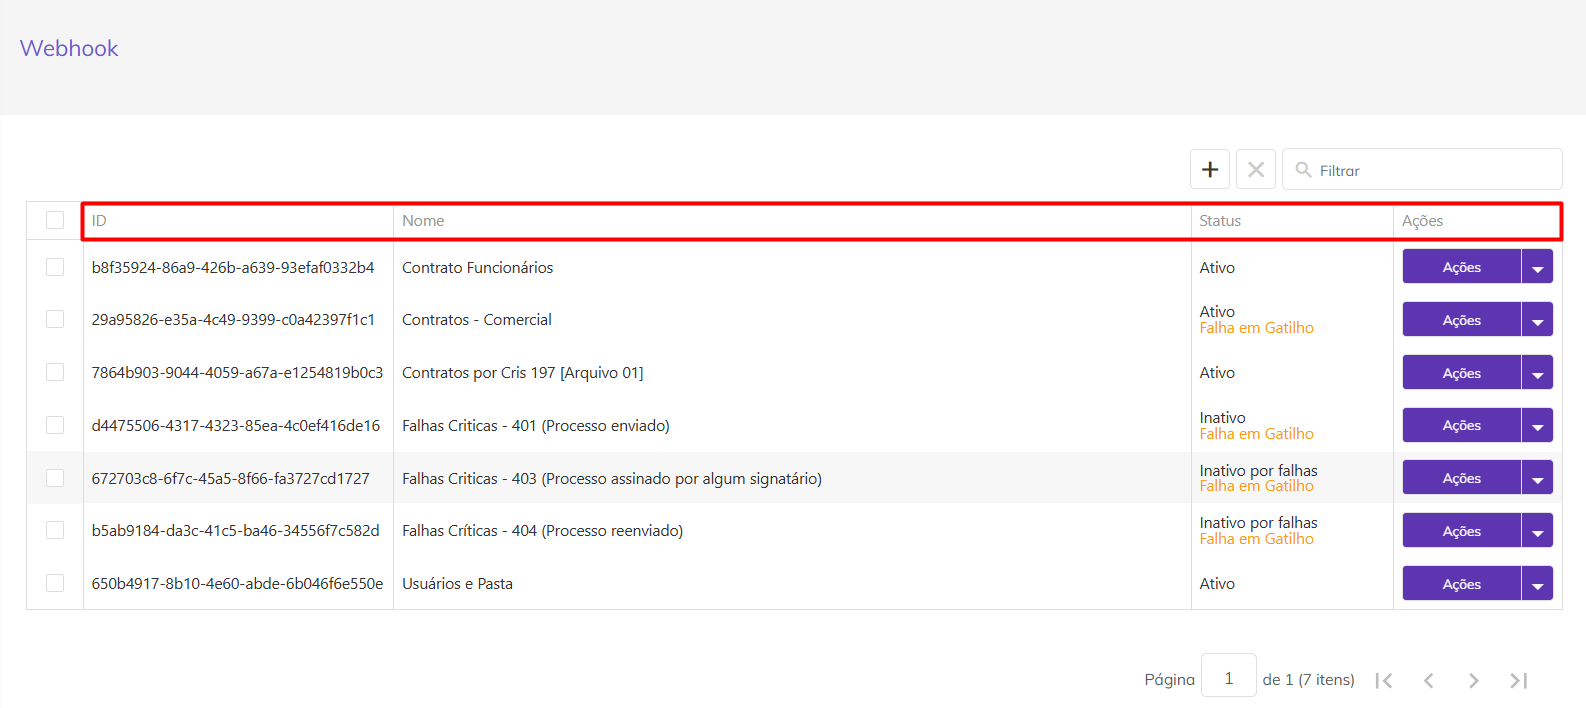
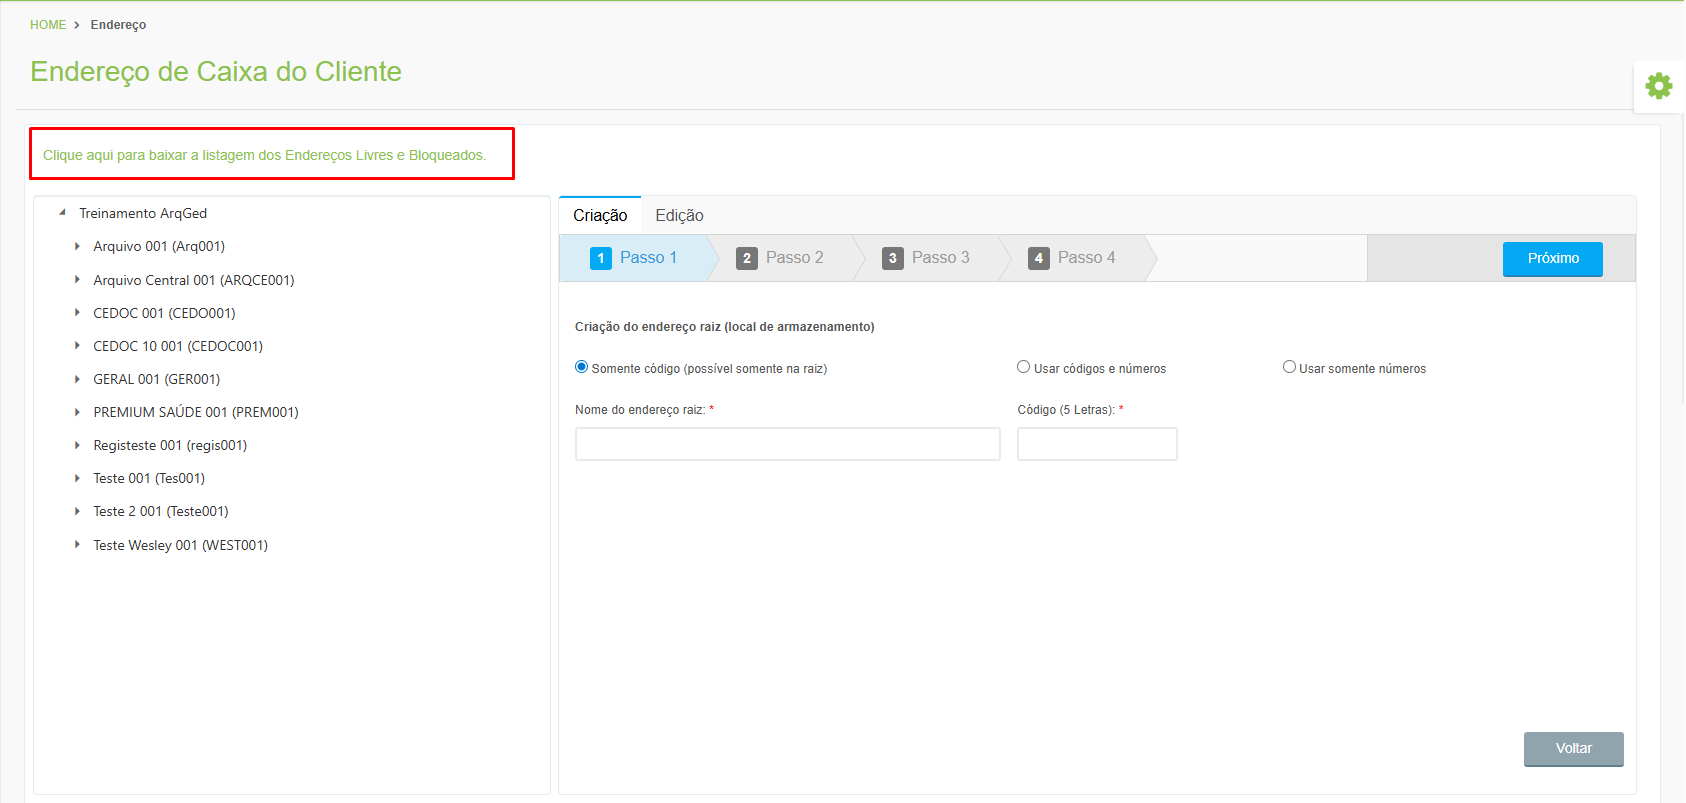
GITBOOK-861: No subject

diff --git a/endereco/endereco-do-cliente.md b/endereco/endereco-do-cliente.md
@@ -1,71 +1,90 @@
 # 🟩 Endereço do Cliente
 
-{% embed url="https://app.supademo.com/demo/cmbawkiw21yr0sn1rl8jfu263" %}
+{% @supademo/embed demoId="cmbawkiw21yr0sn1rl8jfu263" url="https://app.supademo.com/demo/cmbawkiw21yr0sn1rl8jfu263" %}
 
-Na tela de Endereço do Cliente são mostradas todas as posições de armazenamento que o cliente possui em seu espaço físico, como salas, galpões, armários etc.&#x20;
+Na tela de Endereço do Cliente são mostradas todas as posições de armazenamento que o cliente possui em seu espaço físico, como salas, galpões, armários etc.
 
-## Endereço do Cliente – Tela inicial&#x20;
+## Endereço do Cliente – Tela inicial
 
-Na tela inicial de Endereço do Cliente são mostrados todos os clientes da unidade Arquivar do usuário logado. &#x20;
+Na tela inicial de Endereço do Cliente são mostrados todos os clientes da unidade Arquivar do usuário logado.
 
-**Ícone Editar:** Utilizado para realizar a edição e criação das posições de armazenamento do cliente selecionado. &#x20;
+**Ícone Editar:** Utilizado para realizar a edição e criação das posições de armazenamento do cliente selecionado.
 
-**Ícone Visualizar:** Utilizado para visualizar detalhes das posições de armazenamento do cliente selecionado.&#x20;
+**Ícone Visualizar:** Utilizado para visualizar detalhes das posições de armazenamento do cliente selecionado.
 
-**Coluna Nome Fantasia:** Exibe o nome fantasia do cliente.&#x20;
+**Coluna Nome Fantasia:** Exibe o nome fantasia do cliente.
 
-**Coluna Razão Social:** Exibe a razão social do cliente.&#x20;
+**Coluna Razão Social:** Exibe a razão social do cliente.
 
 {% hint style="info" %}
-<mark style="color:blue;">**NOME FANTASIA X RAZÃO SOCIAL:**</mark> <mark style="color:blue;"></mark><mark style="color:blue;">O nome fantasia de uma empresa é como ela vai ser conhecida ou reconhecida pelo público. É definido na hora da formalização, considerando o mercado e a área de atuação. Já a razão social, é o nome oficial do empreendimento no registro, usada em contratos, Nota Fiscal e documentos oficiais.</mark>&#x20;
+<mark style="color:blue;">**NOME FANTASIA X RAZÃO SOCIAL:**</mark> <mark style="color:blue;">O nome fantasia de uma empresa é como ela vai ser conhecida ou reconhecida pelo público. É definido na hora da formalização, considerando o mercado e a área de atuação. Já a razão social, é o nome oficial do empreendimento no registro, usada em contratos, Nota Fiscal e documentos oficiais.</mark>
 {% endhint %}
 
 <figure><img src="../.gitbook/assets/endereco18.png" alt=""><figcaption><p>Clique na imagem para ampliar.</p></figcaption></figure>
 
 ***
 
-## Criação de Endereço do Cliente&#x20;
+## Criação de Endereço do Cliente
 
-### Aba Criação&#x20;
+### Aba Criação
 
-Na aba Criação são exibidos são exibidas todas as posições de armazenamento que o cliente possui no lado esquerdo da tela.&#x20;
+Na aba Criação são exibidas todas as posições de armazenamento que o cliente possui no lado esquerdo da tela.
 
-Para criar um espaço de armazenamento siga os passos a seguir: &#x20;
+Para criar um espaço de armazenamento siga os passos a seguir:
 
-1\.  Informe um nome para o endereço raiz e um código de cinco letras para esse endereço. É preciso também definir se será utilizado apenas o código, o código e números ou somente números para identificação do endereço que está sendo criado. O endereço raiz é o primeiro nível de armazenamento, que abrigará todos os outros níveis. Caso deseje utilizar um endereço raiz já existente, selecione-o na parte esquerda da tela e para ser direcionado para o próximo passo.&#x20;
+1\. Informe um nome para o endereço raiz e um código de cinco letras para esse endereço. É preciso também definir se será utilizado apenas o código, o código e números ou somente números para identificação do endereço que está sendo criado. O endereço raiz é o primeiro nível de armazenamento, que abrigará todos os outros níveis. Caso deseje utilizar um endereço raiz já existente, selecione-o na parte esquerda da tela e para ser direcionado para o próximo passo.
 
 {% hint style="info" %}
-<mark style="color:blue;">**EXEMPLO:**</mark> <mark style="color:blue;"></mark><mark style="color:blue;">Imagine que o cliente possui seu arquivo inteiro em uma sala de sua sede. Neste caso, o endereço raiz pode ser “SALA 01”, e os demais níveis podem ser armários, prateleiras, gavetas etc.</mark>
+<mark style="color:blue;">**EXEMPLO:**</mark> <mark style="color:blue;">Imagine que o cliente possui seu arquivo inteiro em uma sala de sua sede. Neste caso, o endereço raiz pode ser “SALA 01”, e os demais níveis podem ser armários, prateleiras, gavetas etc.</mark>
 {% endhint %}
 
 <figure><img src="../.gitbook/assets/endereco19.png" alt=""><figcaption><p>Clique na imagem para ampliar.</p></figcaption></figure>
 
-2\. Informe a quantidade de níveis de armazenamento que aquele endereço terá e se nesse endereço será determinada a posição exata de caixas e pastas e de quantidade de itens que caberão no local. Se for selecionado que não será preciso definir a posição exata das caixas nem a quantidade de itens que caberão, será preciso informar manualmente no sistema quando o local de armazenamento estiver cheio. &#x20;
+2\. Informe a quantidade de níveis de armazenamento que aquele endereço terá e se nesse endereço será determinada a posição exata de caixas e pastas e de quantidade de itens que caberão no local. Se for selecionado que não será preciso definir a posição exata das caixas nem a quantidade de itens que caberão, será preciso informar manualmente no sistema quando o local de armazenamento estiver cheio.
 
 <figure><img src="../.gitbook/assets/endereco20.png" alt=""><figcaption><p>Clique na imagem para ampliar.</p></figcaption></figure>
 
-3\. Defina os níveis de armazenamento usando códigos e números ou somente números. Os níveis de armazenamento são uma forma de dividir e organizar os locais que receberão as caixas, como armários, prateleiras, estantes, gavetas, posições etc. É preciso também informar a quantidade de posições de cada um dos níveis de armazenamento.&#x20;
+3\. Defina os níveis de armazenamento usando códigos e números ou somente números. Os níveis de armazenamento são uma forma de dividir e organizar os locais que receberão as caixas, como armários, prateleiras, estantes, gavetas, posições etc. É preciso também informar a quantidade de posições de cada um dos níveis de armazenamento.
 
 <figure><img src="../.gitbook/assets/endereco21.png" alt=""><figcaption><p>Clique na imagem para ampliar.</p></figcaption></figure>
 
-Para finalizar, clique em “Concluir”. Os locais criados serão exibidos no lado esquerdo da tela. &#x20;
+Para finalizar, clique em “Concluir”. Os locais criados serão exibidos no lado esquerdo da tela.
 
 <figure><img src="../.gitbook/assets/endereco22.png" alt=""><figcaption><p>Clique na imagem para ampliar.</p></figcaption></figure>
 
 ***
 
-### Aba Edição&#x20;
+### Aba Edição
 
-Na aba Edição é possível editar o nome e o código do endereço e alterar o status dos níveis de armazenamento, se necessário.  &#x20;
+Na aba Edição é possível editar o nome e o código do endereço e alterar o status dos níveis de armazenamento, se necessário.
 
-O status de um nível de armazenamento é “Livre” por padrão, ou seja, pode receber caixas e documentos livremente. &#x20;
+O status de um nível de armazenamento é “Livre” por padrão, ou seja, pode receber caixas e documentos livremente.
 
-Caso seja necessário é possível bloquear um local de armazenamento selecionando o status “Bloqueado”. O bloqueio só pode ocorrem se o nível selecionado for o último nível de armazenamento.&#x20;
+Caso seja necessário é possível bloquear um local de armazenamento selecionando o status “Bloqueado”. O bloqueio só pode ocorrem se o nível selecionado for o último nível de armazenamento.
 
-O status “Livre/Bloqueado” serve para sinalizar quando um nível intermediário possui tanto locais livres quanto bloqueados.&#x20;
+O status “Livre/Bloqueado” serve para sinalizar quando um nível intermediário possui tanto locais livres quanto bloqueados.
 
 {% hint style="info" %}
-<mark style="color:blue;">**EXEMPLO:**</mark> <mark style="color:blue;"></mark><mark style="color:blue;">Uma estante possui três prateleiras, sendo que uma está livre e as outras duas estão bloqueadas. Neste caso, o status da prateleira será “Livre/Bloqueado”.</mark>
+<mark style="color:blue;">**EXEMPLO:**</mark> <mark style="color:blue;">Uma estante possui três prateleiras, sendo que uma está livre e as outras duas estão bloqueadas. Neste caso, o status da prateleira será “Livre/Bloqueado”.</mark>
 {% endhint %}
 
 <figure><img src="../.gitbook/assets/endereco23.png" alt=""><figcaption><p>Clique na imagem para ampliar.</p></figcaption></figure>
+
+### Relatório de Endereços Livres e Bloqueados
+
+Na tela inicial de Endereço do Cliente, é exibida a opção de baixar a listagem dos Endereços Livres e Bloqueados, esse relatório serve para auxiliar na gestão do espaço de armazenamento do cliente.
+
+{% hint style="warning" %}
+Para usar o relatório é importante o entendimento:
+
+• **Endereços Livres:** Trata-se dos locais ainda disponíveis para alocação de caixas.
+
+• **Endereços Bloqueados:** Trata-se de posições que não podem ser ocupadas por algum motivo físico, como por exemplo, colunas, hidrantes, tuneis e et&#x63;**.**
+
+Outra definição importante, porém não contemplada nesse relatório é:
+
+**• Endereços Reservados:** Trata-se de espaços reservados para endereçamentos específicos de algum client&#x65;**.**
+{% endhint %}
+
+<figure><img src="../.gitbook/assets/image (391).png" alt=""><figcaption><p>Clique na imagem para ampliar.</p></figcaption></figure>
+
